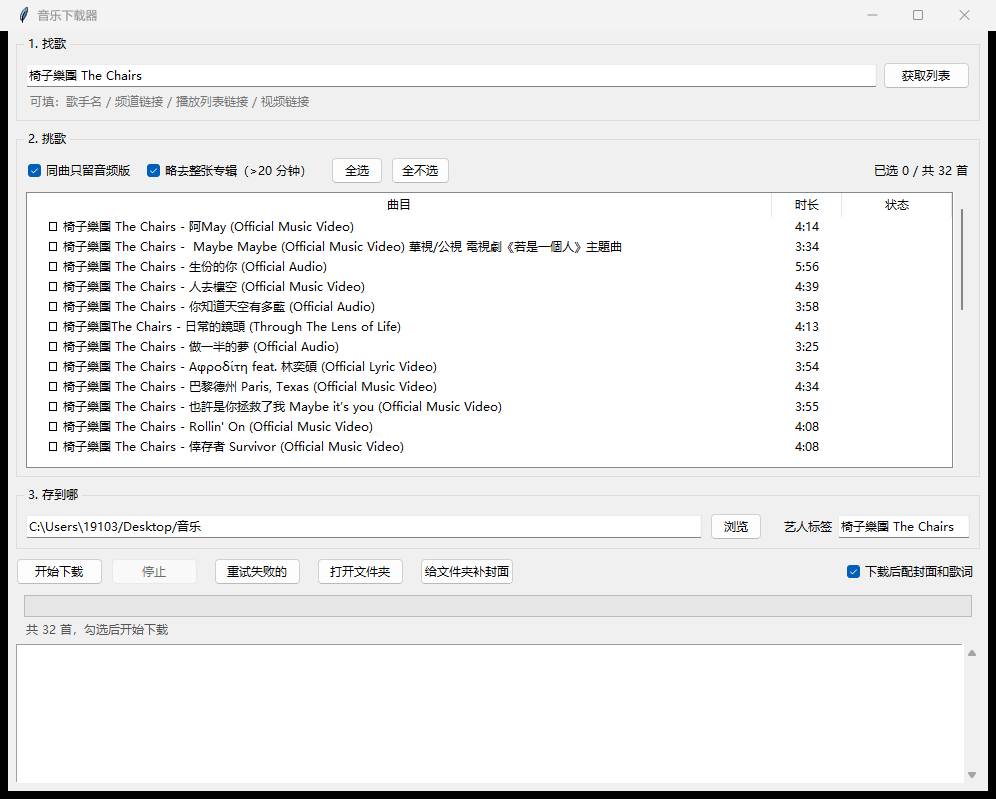
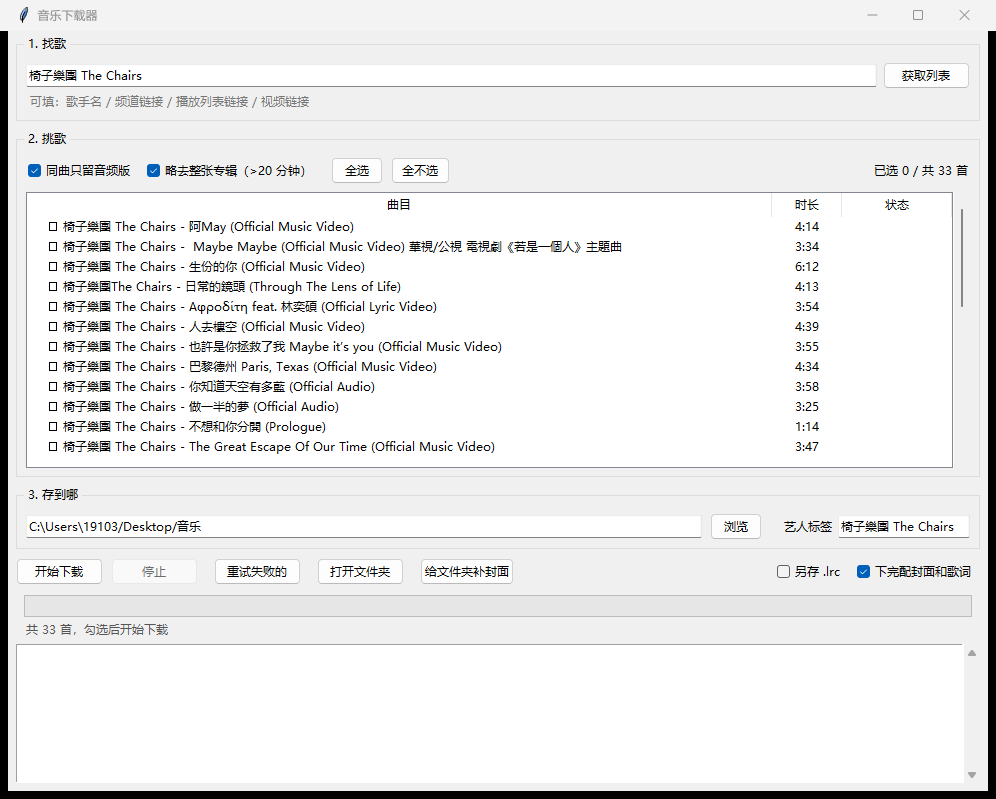
界面加「另存 .lrc」开关，歌词默认只写进 MP3；补非商业与版权声明
- 封面和歌词默认嵌入文件内部，不再额外落地 .lrc，输出目录保持一首歌一个 mp3
- 想让手机播放器读外部歌词时勾「另存 .lrc」
- README / 使用说明补写使用范围与版权条款：非商业、不提供内容、不侵犯著作权、不规避保护措施
- 重截界面图

diff --git a/README.md b/README.md
@@ -2,6 +2,8 @@
 
 Windows 上的一个桌面小工具：按歌手或链接找到歌，勾选，下成 MP3，顺手把专辑封面和歌词一起配好。
 
+做它的起因很朴素：电子书和游泳耳机只认最普通的 MP3——不挑容器、不联网、不需要账号。所以输出就是干干净净的音频文件，封面和歌词是附赠的，设备不认也不影响播放。
+
 ![界面](界面.png)
 
 ## 能干什么
@@ -18,7 +20,9 @@ Windows 上的一个桌面小工具：按歌手或链接找到歌，勾选，下
 **配封面和歌词**　每首下完再走两步：
 
 - 封面去 iTunes 搜专辑图，600×600，直接嵌进文件
-- 歌词去网易云搜带时间轴的 LRC，一份嵌进 USLT 标签，一份存成同名 `.lrc`
+- 歌词去网易云搜带时间轴的 LRC，嵌进 USLT 标签
+
+两项都写在 mp3 文件内部，不产生额外文件——拷进电子书、游泳耳机就是干干净净一个 mp3。只有想让手机播放器读外部歌词时，才勾「另存 .lrc」生成一份同名文本，默认关。
 
 **补封面**　已经下好的歌，点「给文件夹补封面」批量配上，只动封面不碰其他标签。
 
@@ -59,6 +63,14 @@ winget install yt-dlp ffmpeg        # 或者 scoop install yt-dlp ffmpeg
 - 只在 Windows 上跑过，Linux/macOS 上 `.bat` 用不了，`.pyw` 应该能跑但没试
 - 繁简对照表是手写的一百来字，不是完整转换
 
-## 免责声明
+## 使用范围与版权声明
 
-这个工具只是给 `yt-dlp` 套了个界面，用它下载任何东西仍然受对方平台条款和当地法律约束。请只下载你有权获取的内容，不要拿去做二次分发或商业用途。
+- **非商业**：本仓库仅供个人学习、研究和技术交流，不得用于任何商业用途，不得售卖、出租、二次分发或以其他方式获利。
+- **不提供内容**：仓库里只有实现思路和界面代码，不存储、不提供、不代理任何音乐或视频文件。所有内容都来自使用者自行指定的第三方平台，本仓库与这些平台没有关联。
+- **不侵犯著作权**：下载所得作品的著作权归原作者和权利人所有。请只下载你有权获取的内容，例如自己上传的作品、已获授权的内容，或《中华人民共和国著作权法》第二十四条规定的「为个人学习、研究或者欣赏，使用他人已经发表的作品」等合理使用情形，并且只在合理范围内使用。
+- **不规避保护措施**：不得用本工具绕过付费、会员或版权保护机制，不得批量下载后公开传播、上传到其他平台或用于任何形式的再发布。
+- **责任自负**：使用本工具产生的任何后果由使用者自行承担。权利人提出异议时，请立即停止使用并删除相关文件。
+- **平台条款**：YouTube 等平台的服务条款通常不鼓励下载，使用前请自行确认你所处地区和平台规则是否允许。
+- 本项目未采用开源许可证，保留所有权利；未经书面许可不得商用。
+
+这个工具只是给 `yt-dlp` 套了个界面，本身不构成对任何内容的授权。
